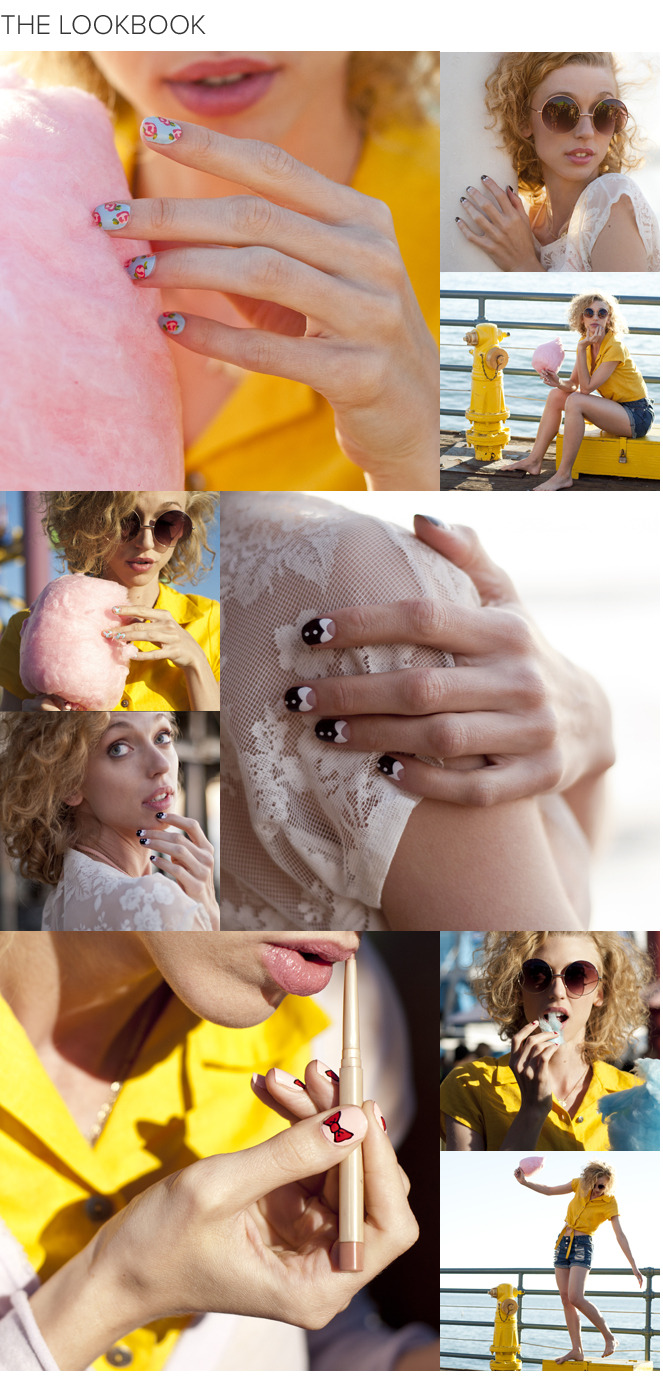
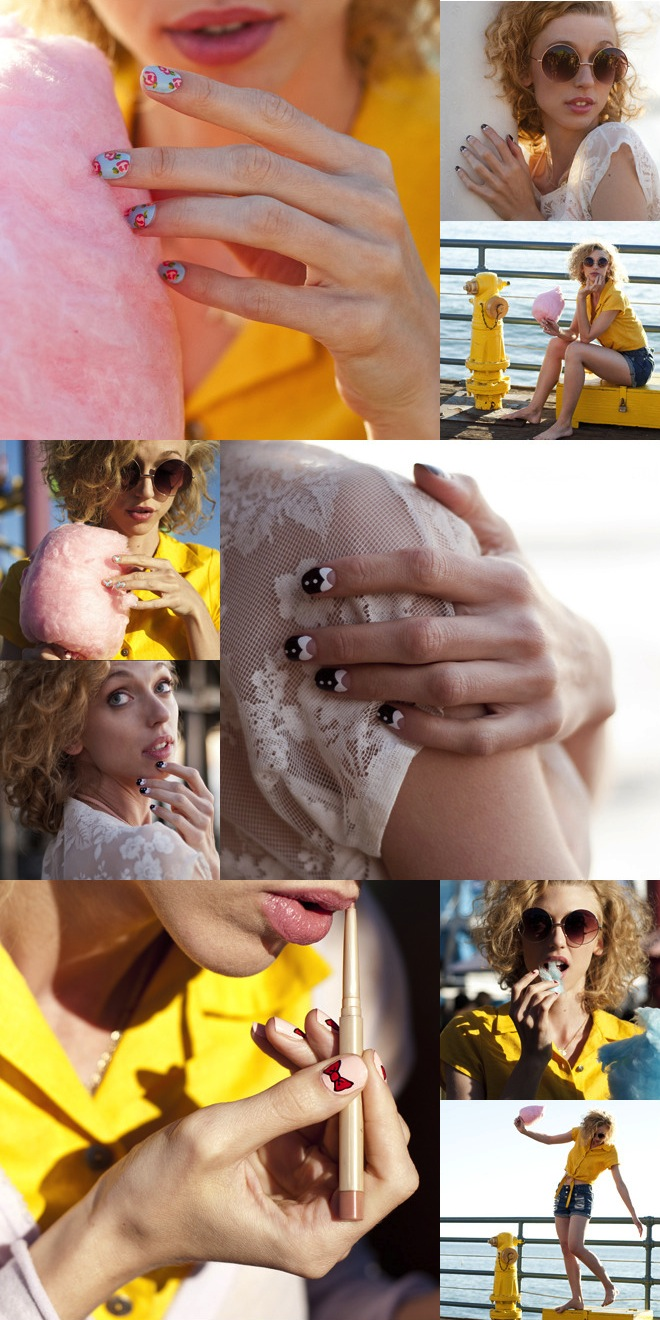
image boxes

diff --git a/index.html b/index.html
@@ -51,29 +51,34 @@
     </div>
     <div class="container Artist12About" id="squid">
          <div class="row">
-            <div class="col-md-5"><h2>The Dainty Squid</h2>
+            <div class="col-md-7"><img class="artimg" src="images/collection2.jpg" alt="">
+                </div>
+                 <div class="col-md-5">
+                    <h2>The Dainty Squid</h2>
                              <h3>by: Kaylah</h3>
                              <p>My collection of nail designs were inspired by my love of geometric shapes, bold lines, and monochromatic color schemes. With a little help from my friends, I came up with some silly puns to name them each.</p>
                              <p>Top 0 ' the Mountain to Ya, when I first looked at it reminded me of upside down mountains. (You've Got a) Spring in Your Step, with it's three shades of green is reminiscent of spring to me. Finally, Sea Ya Later, of course, reminds me of a great body of water with those prett shades of blue.</p>
-                             <img class="art2pic" src="images/artist2.jpg" alt=""></div>
-                 <div class="col-md-7"><img class="artimg" src="images/collection2.jpg" alt=""></div></div>
+                             <img class="art2pic" src="images/artist2.jpg" alt="">
+                 </div>
+             </div>
     </div>
-    <div class="container Artist12About" id="squid">
+    <div class="container Artist13About" id="squid">
          <div class="row">
-            <div class="col-md-5"><h2>The Dainty Squid</h2>
-                             <h3>by: Kaylah</h3>
-                             <p>My collection of nail designs were inspired by my love of geometric shapes, bold lines, and monochromatic color schemes. With a little help from my friends, I came up with some silly puns to name them each.</p>
-                             <p>Top 0 ' the Mountain to Ya, when I first looked at it reminded me of upside down mountains. (You've Got a) Spring in Your Step, with it's three shades of green is reminiscent of spring to me. Finally, Sea Ya Later, of course, reminds me of a great body of water with those prett shades of blue.</p>
-                             <img class="art2pic" src="images/artist2.jpg" alt=""></div>
-                 <div class="col-md-7"><img class="artimg" src="images/collection2.jpg" alt=""></div></div>
+            <div class="col-md-5">
+                 <h2>The Flat Vernacular</h2>
+                <h3>by: Payton and Brian</h3>
+                <p>Flat Vernacular is a Brooklyn-based design company that specializes in original hand-drawn, hand-printed, and bespoke wallpapers.</p>
+                <p>We take great time and care with each project that comes to us. Keeping one foot firmly in fine art and one in design allows for our visual capabilities and design skills to remain expansive yet thoughtful. The idea behind our selection of patterns was to highlight three new versions of our current wallpaper patterns which all describe different enviornments: flora, mountains, and the city.</p>
+                <img class="art3pic" src="images/artist3.jpg" alt="">
+            </div>
+                 <div class="col-md-7">
+                    <img class="artimg" src="images/collection3.jpg" alt="">
+                </div>
+            </div>
     </div>
     <div class="Artist3About" id="flat">
-         <h2>The Flat Vernacular</h2>
-        <h3>by: Payton and Brian</h3>
-        <p>Flat Vernacular is a Brooklyn-based design company that specializes in original hand-drawn, hand-printed, and bespoke wallpapers.</p>
-        <p>We take great time and care with each project that comes to us. Keeping one foot firmly in fine art and one in design allows for our visual capabilities and design skills to remain expansive yet thoughtful. The idea behind our selection of patterns was to highlight three new versions of our current wallpaper patterns which all describe different enviornments: flora, mountains, and the city.</p>
-        <img class="art3pic" src="images/artist3.jpg" alt="">
-        <img class="artimg" src="images/collection3.jpg" alt="">
+
+
     </div>
     <div class="Form"></div>
 
